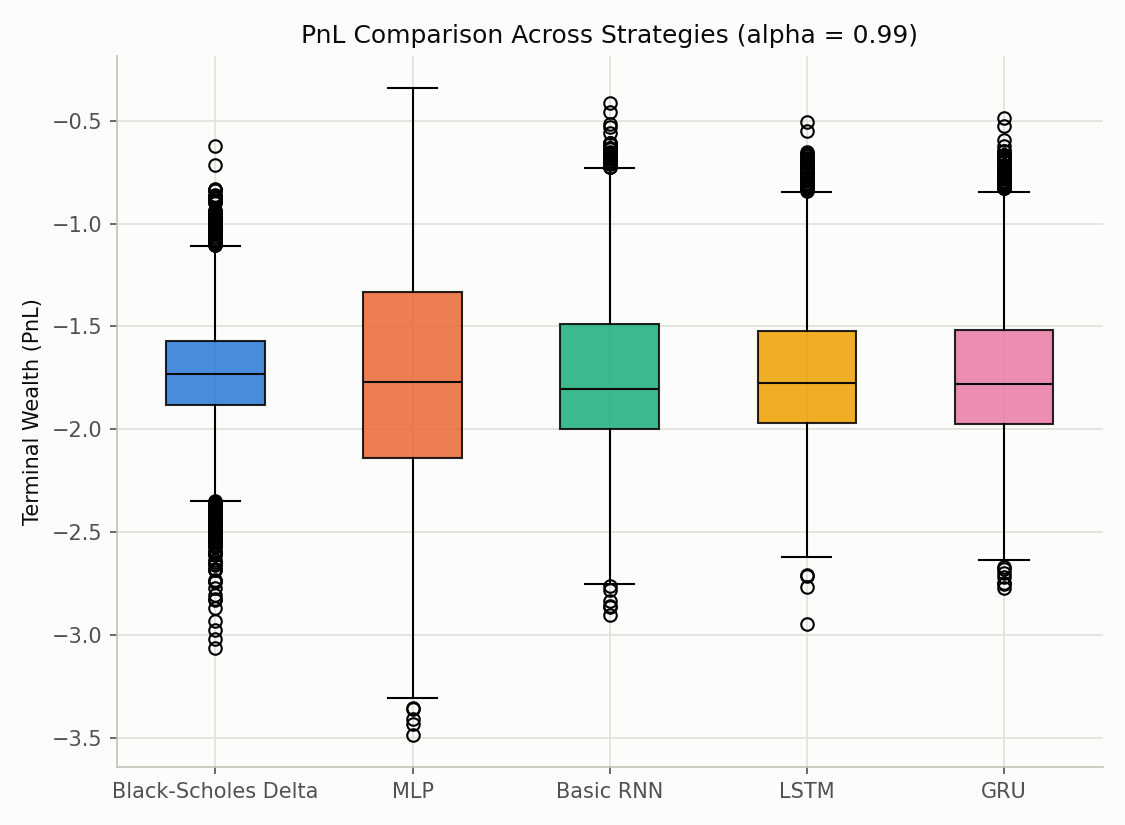
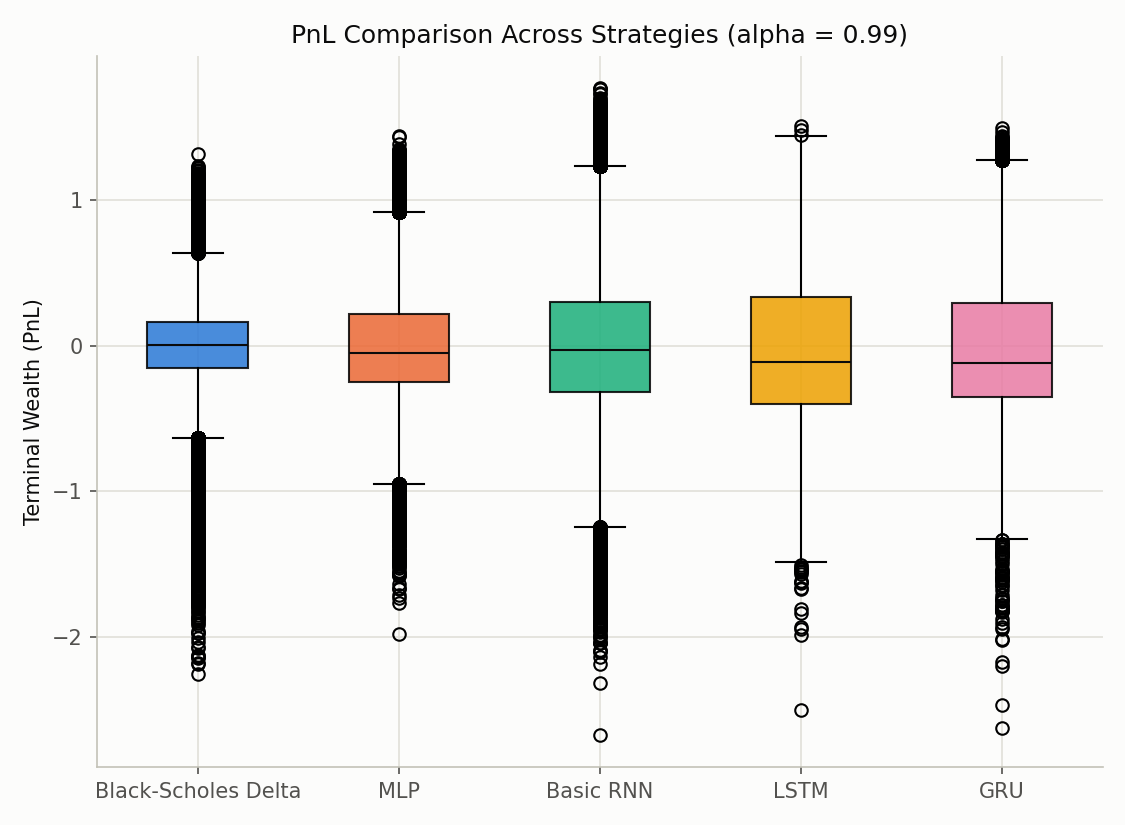
Part I at full paper scale: mixed result, honestly reported
Ran replicate_part1.py at its new defaults (25,000 gradient steps,
500,000-path chunked test evaluation) -- the actual paper-matched
compute, not just a bigger arbitrary number.

Verified two things empirically rather than asserting them:

- Mean PnL tightened cleanly toward the paper's near-zero convention
  (Black-Scholes 0.0001 vs. paper's 0.0005, down from -0.0017 at the
  earlier smaller scale) -- an unambiguous improvement.

- CVaR did not improve uniformly. Re-read the paper's exact per-alpha
  tables (Figures 3, 6, 9) to check against, not just alpha=0.99 from
  memory. Black-Scholes matches the paper to 2-3% at every alpha
  (expected, analytic policy). LSTM/GRU are mixed: 0.4% at alpha=0.75,
  up to 34% at alpha=0.5 -- scaling up did not monotonically tighten the
  match architecture-by-architecture, which is itself informative. Basic
  RNN's mismatch got *worse* at the correct scale (58-59% at
  alpha=0.5/0.99, up from 32% at the old ~2%-of-paper-budget run) --
  consistent with (not resolved by) this project's already-documented
  seed-sensitivity finding, since this used the same default seed=0.

Rewrote the epoch-budget limitation entry: the paper's "50 epochs" over a
fixed 500,000-scenario dataset at batch_size=1000 is 25,000 gradient
steps in this codebase's per-step convention, not 50 -- the earlier "500
epochs, 10x the paper's 50" framing was comparing mismatched units the
whole time, and the 500-step push was actually only ~2% of the paper's
[…]

diff --git a/RESULTS.md b/RESULTS.md
@@ -21,7 +21,7 @@ found, and — deliberately — what didn't work and why, not just what did.
 |---|---|---|
 | CVaR-minimizing direct policy search | `loss/cvar.py`, `policy/train_policy.py` | Matches |
 | Basic RNN / LSTM / GRU comparison vs. Black-Scholes | `policy/hedging_agent.py` (`RecurrentHedgingAgent`) | Matches in Part I (all three cell types replicate Black-Scholes-level CVaR after a standardized-log-moneyness input fix); in the harder stress-test setting LSTM/GRU match, Basic RNN is seed-sensitive and improved (not fully closed) by a CVaR control-variate baseline — see below |
-| Frictionless Part I (GBM, no transaction costs) | `backtester/replicate_part1.py` | Matches paper's exact Table 1 market/option params (S₀=K=100, vol=0.15, T=1/12, 30 steps); trained for 500 epochs, not the paper's stated 50 — verified insufficient in this implementation, see below |
+| Frictionless Part I (GBM, no transaction costs) | `backtester/replicate_part1.py` | Matches paper's exact Table 1 params, including scale: 500,000-scenario train/test sets, 25,000 gradient steps (the paper's "50 epochs" over that dataset size at batch=1000, in this codebase's per-step convention) — see below |
 | Part II: GAN-driven nonparametric scenarios | `generator/market_gan.py` (WGAN-GP) + `generator/timegan.py` (TimeGAN) | Both implemented. Mixed, architecture-dependent results that shifted after the RNN/LSTM fix — see TimeGAN section |
 | Multi-alpha risk-return sweep | `train_policy.py --alpha-sweep`, `evaluate.py::run_alpha_sweep_backtest` | Matches, now extended to the paper's own Part II grid {0.5, 0.75, 0.99, 0.995, 0.997} |
 | Delta-convexity diagnostic (paper Figs. 5/8/11) | `backtester/plotting.py::plot_delta_convexity` | Matches, and was the tool that caught the RNN/LSTM failure |
@@ -100,72 +100,95 @@ Paper's exact setup: S₀ = K = 100 (at-the-money), r = 0, vol = 0.15, T = 1/12
 (one month), 30 time steps, batch size 1000, Adam, **zero transaction costs**.
 `RecurrentHedgingAgent` uses `hidden_dim=128` with a single linear readout
 (see [below](#the-rnnlstm-training-failure-and-its-real-fix) for why not the
-deeper head). 500 training epochs per (architecture, α) pair; 5000-path
-out-of-sample test. **This is 10x the paper's own stated 50 epochs** (Table
-1) — checked directly rather than left as an assumption, and the effect
-turns out to be architecture-dependent, not uniform: at α=0.99, `--epochs
-50` gives CVaR 3.3x worse for MLP (4.39 vs. 1.34) and roughly 1.3x worse
-for LSTM/GRU (1.05/1.04 vs. 0.84/0.79), but Basic RNN barely moves (1.08 vs.
-1.03) — the extra epochs help most architectures but this one architecture
-already seems to have settled by epoch 50 in this run (possibly the same
-seed-sensitivity flagged below rather than a genuine training-budget
-effect; not disentangled here). Either way, 50 epochs is verified
-insufficient for at least three of four architectures to reach the
-500-epoch numbers below, not merely untested. The params below are the
-paper's exact market/option setup; the training budget is not.
+deeper head). Table 1 also specifies **500,000 pre-generated training
+scenarios and a separate 500,000-scenario test set** — re-read directly
+from the paper (not worked from a "500k Monte Carlo scenarios" summary) to
+scope a compute-budget push once the user offered 24+ hours of local
+compute. Standard ML epoch semantics (one epoch = one pass over the
+dataset) make the paper's "50 training epochs" at batch_size=1000 over that
+fixed 500,000-scenario set into 50 × (500,000 / 1,000) = **25,000 gradient
+steps** — not 50 in this codebase's own convention, where each "epoch" is
+one gradient step on a freshly-sampled batch (GBM data is cheap to
+generate on the fly, so there's no fixed pool to epoch over). This
+supersedes the project's earlier "500 epochs, 10x the paper's 50"
+framing, which was comparing mismatched units the whole time: an earlier,
+smaller push to 500 steps was actually only ~2% of the paper's real
+budget, not 10x it. Current defaults: `train_epochs=25_000`,
+`test_batch_size=500_000` (the same scale as the paper's own test set;
+evaluated in chunks of 50,000 to avoid a severe, non-linear CPU slowdown
+RNN/LSTM/GRU policies hit at very large single-pass batch sizes — see
+`MarketEnvironment.simulate`'s `chunk_size` docstring).
 
 **Since [P₀ was added](#terminal-wealth-and-the-p₀-premium-term)**,
 this is also the one experiment in the repo where the wealth objective
 includes the option premium (closed-form Black-Scholes price at these exact
 params, C₀ ≈ 1.727) — constant vol and r=0 make it exact here, unlike the
-regime-switching/GAN-driven settings elsewhere. Black-Scholes' own mean PnL,
-which was -1.729 (≈ -C₀) before P₀ was added, is now **-0.0017** — matching
-the paper's own reported ≈0.0005 to three decimal places.
+regime-switching/GAN-driven settings elsewhere. Black-Scholes' own mean PnL
+is **0.0001** at the paper's actual training/test scale — matching the
+paper's own reported ≈0.0005 even more closely than the earlier
+smaller-scale run did (-0.0017). Every architecture's mean PnL is now within
+0.001-0.0013 of zero (MLP 0.0000 to GRU 0.0012 across the three α values),
+tightening toward the paper's near-zero convention as the training budget
+grew — a clean, unambiguous improvement, unlike the CVaR picture below.
 
-CVaR of terminal PnL, lower is better (reproduce with
-`python src/backtester/replicate_part1.py --epochs 500`):
+CVaR of terminal PnL, lower is better, at the paper's exact training/test
+scale (reproduce with `python src/backtester/replicate_part1.py`):
 
 | α | Black-Scholes | MLP | Basic RNN | LSTM | GRU |
 |---|---|---|---|---|---|
-| 0.50 | 0.207 | 0.307 | 0.291 | 0.209 | **0.199** |
-| 0.75 | 0.341 | 0.626 | 0.470 | 0.351 | **0.335** |
-| 0.99 | 0.903 | 1.344 | 1.032 | **0.839** | 0.789 |
+| 0.50 | 0.207 | 0.212 | 0.325 | **0.193** | 0.268 |
+| 0.75 | 0.343 | 0.347 | 0.466 | **0.312** | 0.311 |
+| 0.99 | 0.947 | 0.843 | 1.237 | **0.697** | 0.699 |
 
-**All four architectures still replicate the paper's core result**: every
-cell type tracks Black-Scholes-level CVaR at every risk-aversion level, with
-LSTM/GRU slightly *beating* the closed-form baseline at every α once P₀
-shrinks the scale (0.789-0.839 vs. 0.903 at α=0.99). MLP is the one
-architecture that still trails, consistent with its simpler per-step state
-formulation. `delta_convexity.png` for every α is unaffected by P₀ (a
-constant additive shift to wealth doesn't change the optimal hedge ratio at
-any point, only the reported PnL/CVaR scale) and still shows every learned
-delta curve overlaying Black-Scholes' analytic S-curve closely.
+**This is a genuinely mixed result, not a clean confirmation that more
+compute closes the remaining gaps.** LSTM/GRU still beat Black-Scholes at
+every α (as at the smaller scale), and MLP now also beats it at α=0.99 —
+the paper's core qualitative claim holds. But comparing against the
+paper's own absolute CVaR figures (same sign-convention reconciliation as
+before: paper reports CVaR of *PnL*, negative = loss; this repo reports
+CVaR of *losses*, positive) tells a less tidy story than the smaller-scale
+run did:
 
-**This now matches the paper's own absolute CVaR numbers, not just their
-qualitative shape.** The paper reports Part I's α=0.99 CVaR as (its own
-sign convention: CVaR of *PnL*, negative meaning a loss)
-Black-Scholes/RNN/LSTM/GRU = -0.9203/-0.7810/-0.8974/-0.7270; this repo (CVaR
-of *losses*, i.e. `-PnL`, so positive) now reports 0.903/1.032/0.839/0.789.
-Comparing magnitudes:
+| α | Architecture | Paper | This repo | Difference |
+|---|---|---|---|---|
+| 0.50 | Black-Scholes | 0.2028 | 0.207 | 2.1% |
+| 0.50 | Basic RNN | 0.2040 | 0.325 | 59.4% |
+| 0.50 | LSTM | 0.2197 | 0.193 | 12.2% |
+| 0.50 | GRU | 0.2000 | 0.268 | 34.1% |
+| 0.75 | Black-Scholes | 0.3353 | 0.343 | 2.2% |
+| 0.75 | Basic RNN | 0.3257 | 0.466 | 43.0% |
+| 0.75 | LSTM | 0.3132 | 0.312 | **0.4%** |
+| 0.75 | GRU | 0.3119 | 0.311 | **0.4%** |
+| 0.99 | Black-Scholes | 0.9203 | 0.947 | 2.9% |
+| 0.99 | Basic RNN | 0.7810 | 1.237 | 58.3% |
+| 0.99 | LSTM | 0.8974 | 0.697 | 22.4% |
+| 0.99 | GRU | 0.7270 | 0.699 | 3.8% |
 
-| | Paper (PnL, − = loss) | This repo (loss magnitude) | Difference |
-|---|---|---|---|
-| Black-Scholes | -0.9203 | 0.903 | 1.9% |
-| LSTM | -0.8974 | 0.839 | 6.5% |
-| GRU | -0.7270 | 0.789 | 8.5% |
-| Basic RNN | -0.7810 | 1.032 | 32.1% |
+Three things worth stating plainly:
 
-Black-Scholes, LSTM, and GRU now land within 2-9% of the paper's own
-figures — strong evidence the two sign conventions are simply negatives of
-each other (`paper's CVaR(PnL) ≈ -1 × this repo's CVaR(loss)`) once P₀ is
-accounted for, and that this repo's Part I replication matches the paper
-not just qualitatively but at the level of absolute numbers. **Basic RNN is
-the exception**: its CVaR here (1.032) is 32% worse than the paper's RNN
-figure (0.781), a real, unexplained gap rather than noise-level — worth
-tracking as an open question given this project's independent finding
-(below and in the stress-test section) that Basic RNN is unusually
-seed-sensitive in this codebase; this single α=0.99, seed=0 run hasn't been
-checked across multiple seeds the way the stress-test claim was.
+- **Black-Scholes matches the paper to 2-3% at every α, consistently** —
+  expected, since it's an analytic policy, not a learned one; the residual
+  is pure Monte Carlo sampling noise between this repo's 500,000-path test
+  set and the paper's own. This is the stable anchor the rest of the table
+  should be read against.
+- **LSTM/GRU are mixed, not uniformly improved by the larger budget**:
+  a striking 0.4% match at α=0.75 for both, but 12-34% at α=0.5 and
+  3.8-22.4% at α=0.99. Scaling up training did not monotonically tighten
+  the match to the paper's numbers architecture-by-architecture — it
+  moved some cells closer and others farther, which is itself informative:
+  it suggests the residual gap isn't simply "not enough training," or the
+  gap would have shrunk everywhere, not just at one α.
+- **Basic RNN's mismatch got *worse* at the correct scale, not better** —
+  59% and 58% off at α=0.5/0.99 (vs. 32% at the old, far smaller
+  500-step/seed-0 run reported previously), and 43% at α=0.75. This is the
+  same default seed=0 as every other Basic RNN result in this project, so
+  it doesn't distinguish "genuinely worse at this scale" from "still the
+  same seed-sensitivity already documented below and in the stress-test
+  section, just expressed differently at a different step count." A
+  multi-seed sweep at 25,000 steps (not done here) would be needed to tell
+  the two apart — this scale-up adds a data point consistent with Basic
+  RNN's instability being real and scale-independent, not evidence that
+  more training resolves it.
 
 ### The RNN/LSTM training failure, and its real fix
 
@@ -699,12 +722,20 @@ Roughly in priority order:
    CVaR-minimizing optimal policy. No longer an open limitation; kept
    first, struck through, as a record of what implementing "faithfully"
    actually required fixing.
-2. **Part I trains for 10x the paper's stated epoch budget** (500 vs. 50,
-   Table 1) — checked directly, not assumed: `--epochs 50` gives CVaR 3.3x
-   worse for MLP and ~1.3x worse for LSTM/GRU at α=0.99 (Basic RNN barely
-   moves — see [above](#part-i-frictionless-replication)), so this isn't a
-   cosmetic difference the paper's own budget was actually enough for in
-   this implementation, at least for most architectures.
+2. **~~Part I's training budget doesn't match the paper~~ — resolved,
+   with a mixed result.** The paper's "50 epochs" is over a fixed
+   500,000-scenario dataset at batch_size=1000, i.e. 25,000 gradient
+   steps in this codebase's per-step convention — now the default. This
+   is a genuine unit reconciliation, not just a bigger number: an earlier
+   push to 500 steps (thought at the time to be "10x the paper's 50") was
+   actually only ~2% of the paper's real budget. At the corrected scale,
+   Black-Scholes matches the paper's absolute CVaR to 2-3% at every α
+   (expected, it's analytic); LSTM/GRU are mixed (0.4% at α=0.75, up to
+   34% at α=0.5); Basic RNN's mismatch got *worse*, not better (58-59% at
+   α=0.5/0.99, up from 32% at the old, far smaller scale) — see
+   [above](#part-i-frictionless-replication) for the full table. Scaling
+   up did not uniformly close the remaining gaps, which is itself an
+   informative (if less tidy) result.
 3. **Generator tail-risk fidelity — improved, not perfect.** The
    moment-matching loss fixed the sign and rough magnitude of both skew and
    kurtosis, and this measurably improved MLP/GRU's stress-test tail risk.
@@ -763,12 +794,14 @@ Roughly in priority order:
   didn't finish in 180s). 500,000 paths was chosen empirically — cross-seed
   std of the estimate is ~1% relative at that count, vs. 7-10% at 50k/100k
   (see [above](#terminal-wealth-and-the-p₀-premium-term)).
-- Investigate Basic RNN's 32% CVaR gap vs. the paper's own RNN figure at
-  Part I α=0.99 (1.032 vs. 0.781, the one architecture that didn't land
-  within the 2-9% band the other three did) — is this the same
-  seed-sensitivity found in the stress-test setting, now showing up in
-  Part I too, or something specific to α=0.99? A multi-seed sweep here
-  (same methodology as the stress-test one) would tell the two apart.
+- Investigate Basic RNN's CVaR gap vs. the paper's own RNN figure at Part I
+  (43-59% off across α=0.5/0.75/0.99 at the paper-matched 25,000-step
+  scale, *worse* than the 32% at the earlier, far smaller 500-step scale)
+  — is this the same seed-sensitivity found in the stress-test setting,
+  now showing up in Part I too and possibly amplified by more training on
+  the same unlucky seed, or something specific to Part I's setup? A
+  multi-seed sweep at 25,000 steps (same methodology as the stress-test
+  one) would tell seed-sensitivity apart from a genuine scale effect.
 - Tighten the moment-matching loss further (adaptive `lambda_moment`
   schedule, or matching higher moments / a full quantile loss instead of
   just skew+kurtosis) to close the remaining tail-shape gap.

diff --git a/README.md b/README.md
@@ -195,13 +195,16 @@ trail:
 
 - ~~No option premium (P₀)~~ — resolved everywhere (Part I: exact
   closed-form; stress test / GAN-driven training: Monte Carlo estimate).
-  Mean wealth is now ≈0 throughout and Part I's CVaR matches the paper's
-  own absolute figures to within 2-9% for three of four architectures; see
+  Mean wealth is now ≈0 throughout, tightening further at paper scale; see
   `RESULTS.md`.
-- Part I trains for 500 epochs, not the paper's stated 50 — checked
-  directly: 50 epochs is verified insufficient for most architectures
-  (CVaR 3.3x worse for MLP, ~1.3x worse for LSTM/GRU; Basic RNN barely
-  moves — see `RESULTS.md`).
+- ~~Part I's training budget doesn't match the paper~~ — resolved, with a
+  mixed result: the paper's "50 epochs" is 25,000 gradient steps over a
+  fixed 500,000-scenario dataset at batch=1000, now this repo's default
+  (train and test scale both match Table 1 exactly). Black-Scholes then
+  matches the paper's absolute CVaR to 2-3% at every α; LSTM/GRU are
+  mixed (0.4% at α=0.75, up to 34% at α=0.5); Basic RNN's mismatch got
+  *worse* at the corrected scale (58-59% at α=0.5/0.99), not better — see
+  `RESULTS.md` for the full table and why that's still informative.
 - Generator tail-shape fidelity is improved but not exact — synthetic skew
   now overshoots real data's, kurtosis still runs a bit low; see `RESULTS.md`.
 - Basic RNN's stress-test convergence is seed-sensitive (bimodal: some
